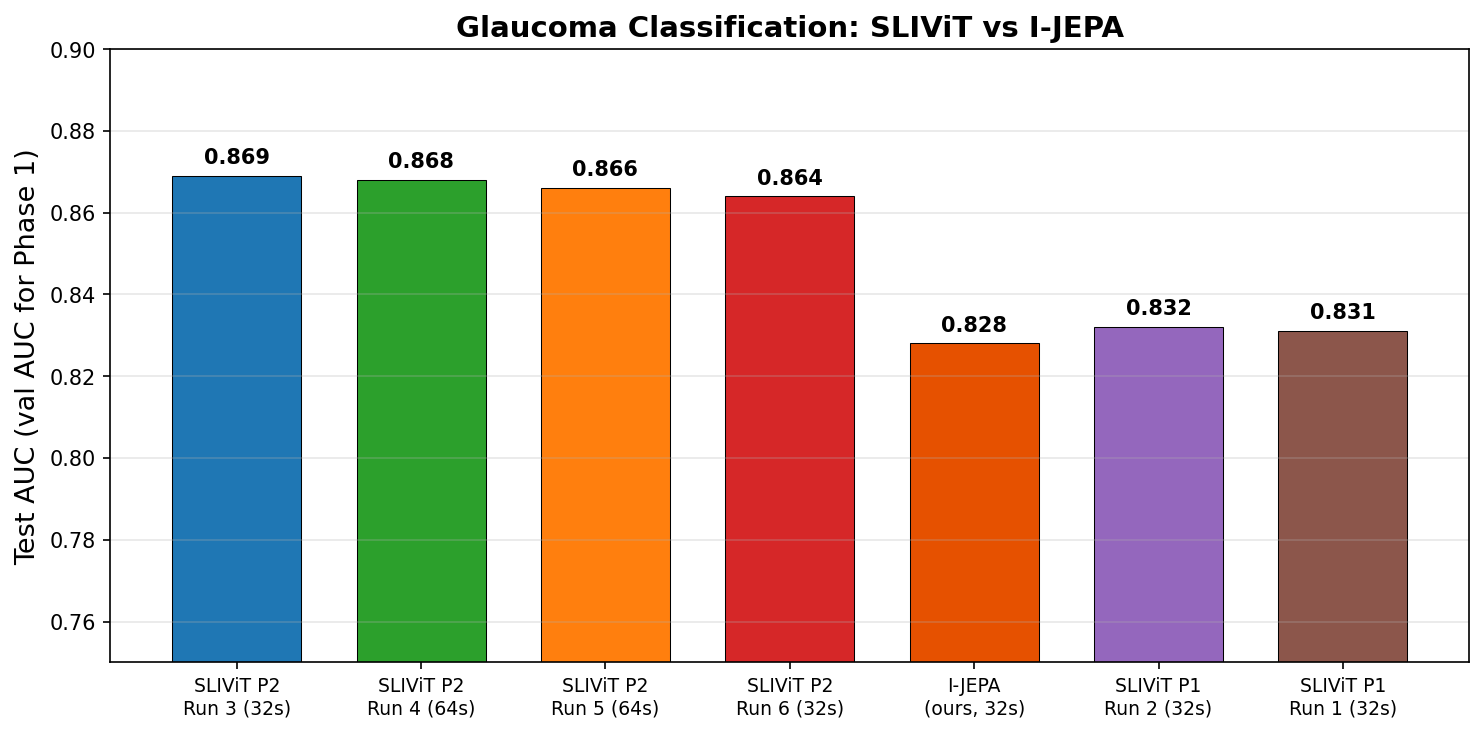
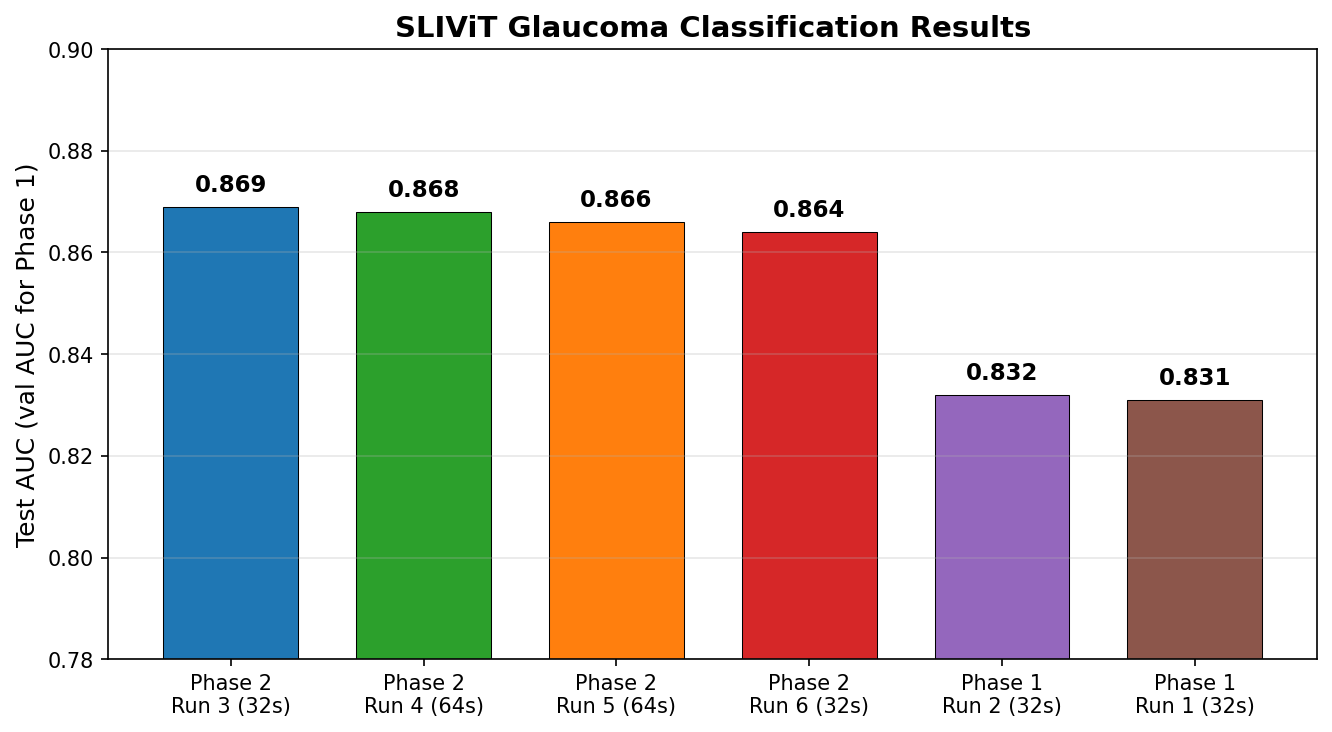
Restore original README, add sub-links and charts only
- Keep original README text intact (background, what we tried, etc.)
- Add pipeline SVG and bar chart to Architecture/Results sections
- Add sub-links to docs/experiments detail pages
- Add docs/ and results/ to project structure
- Remove I-JEPA references (this is a standalone SLIViT project)

diff --git a/README.md b/README.md
@@ -2,54 +2,23 @@
 
 Reproducing the [SLIViT](https://github.com/cozygene/SLIViT) architecture for binary glaucoma classification on [Harvard FairVision](https://github.com/Harvard-Ophthalmology-AI-Lab/FairVision) OCT data.
 
-## Results Summary
+## Background
 
-| Method | Slices | LR config | Dropout | Eff Batch | Test AUC |
-|--------|--------|-----------|---------|-----------|----------|
-| **SLIViT Phase 2, Run 3** | **32** | **5e-6 / 1e-5 / 5e-5** | **0.10** | **8** | **0.869** |
-| SLIViT Phase 2, Run 4 | 64 | 1e-6 / 5e-6 / 5e-5 | 0.15 | 4 | 0.868 |
-| SLIViT Phase 2, Run 5 | 64 | 1e-6 / 5e-6 / 5e-5 | 0.15 | 16 | 0.866 |
-| SLIViT Phase 2, Run 6 | 32 | 1e-6 / 5e-6 / 5e-5 | 0.15 | 16 | 0.864 |
-| SLIViT Phase 1, Run 2 | 32 | 2e-5 / 1e-4 (vit/head) | 0.0 | 16 | N/A (val 0.832) |
-| SLIViT Phase 1, Run 1 | 32 | 5e-5 / 5e-5 (vit/head) | 0.0 | 16 | N/A (val 0.831) |
-| *I-JEPA (ours)* | *32* | *—* | *—* | *—* | *0.828* |
+### How SLIViT works
 
-*I-JEPA result from our [sibling project](https://github.com/yfeng0206/I-JEPA) using ViT-B/16 with ImageNet-initialized SSL pretraining + fine-tuning.*
+SLIViT classifies 3D medical volumes without a full 3D CNN by slicing the volume into 2D images and processing them in stages:
 
-![Test AUC](results/test_auc_comparison.png)
+**Stage 1: ConvNeXt-Tiny (feature extractor).** A 2D CNN that processes each OCT slice independently to extract spatial features (retinal layer boundaries, thickness patterns, etc). Pretrained on ImageNet, then on the [Kermany OCT dataset](https://data.mendeley.com/datasets/rscbjbr9sj/2) (84K retinal OCT images: CNV, DME, drusen, normal).
 
-## Key Findings
+**Stage 2: ViT (integrator).** A Vision Transformer that takes per-slice features from ConvNeXt and learns cross-slice relationships. Randomly initialized.
 
-1. **Full fine-tuning is the key lever.** Unfreezing ConvNeXt pushed test AUC from ~0.83 (Phase 1) to 0.869 (Phase 2), confirming that Kermany-pretrained features alone are insufficient for glaucoma.
+**Stage 3: Classification head.** `LayerNorm + Linear(256, 1)`, outputs a single logit.
 
-2. **32 slices is enough.** Controlled comparison (Runs 5 vs 6, identical hyperparameters): 64 slices gave 0.866 vs 32 slices at 0.864 — negligible difference at 5x the training cost.
+### Why start with a frozen feature extractor?
 
-3. **Higher LRs found a better optimum.** Run 3's aggressive LRs (5e-6/1e-5/5e-5) peaked early (epoch 4) but reached the best test AUC. Early stopping captured the sweet spot.
+The ConvNeXt already knows OCT from Kermany pretraining, so freezing it and only training the ViT+head is cheaper and safer. This capped at ~0.83 AUC because glaucoma has its own patterns (RNFL thinning, optic nerve changes) that the frozen features can't capture. Unfreezing for Phase 2 pushed test AUC to 0.87.
 
-4. **Overfitting is the main bottleneck.** Train loss ~0.04 vs val loss >1.0 by end of training. Root cause: 50M trainable params on 6K images, with 33M in unnecessary projection layers.
-
-5. **20-head projection waste.** `vit_dim=256` doesn't divide by 20 heads, forcing 256-to-1280 projections. Switching to 16 heads would cut trainable params from 50M to ~15M.
-
-## Quick Links
-
-| | |
-|---|---|
-| **Experiments** | [All experiments](docs/experiments) |
-| **Phase 1** | [Frozen ConvNeXt experiments](docs/experiments/phase1) (2 runs) |
-| **Phase 2** | [Full fine-tuning experiments](docs/experiments/phase2) (4 runs) |
-| **Architecture** | [Model architecture details](docs/architecture.md) |
-
-## Architecture
-
-SLIViT classifies 3D OCT volumes without a 3D CNN by slicing the volume into 2D images and processing them in a pipeline:
-
-1. **ConvNeXt-Tiny** (feature extractor) — processes each OCT slice independently. Pretrained on ImageNet, then on the Kermany OCT dataset (84K retinal OCT images).
-2. **ViT** (integrator) — takes per-slice features and learns cross-slice relationships. 5 layers, 20 heads, dim 256.
-3. **Classification head** — `LayerNorm + Linear(256, 1)`, outputs a single logit.
-
-Total: 77.8M params (27.8M ConvNeXt, 50M ViT + projections + head). See [full architecture details](docs/architecture.md).
-
-## Dataset
+### The dataset
 
 Glaucoma subset of [Harvard FairVision](https://github.com/Harvard-Ophthalmology-AI-Lab/FairVision):
 - 10,000 subjects, each with a 200x200x200 OCT volume (`.npz`)
@@ -59,7 +28,82 @@ Glaucoma subset of [Harvard FairVision](https://github.com/Harvard-Ophthalmology
 
 ~63GB compressed, available on [HuggingFace](https://huggingface.co/datasets/ming0100/Harvard_FairVision) (`dataset-004.zip`).
 
-## Project Structure
+## Architecture details
+
+![Pipeline](results/pipeline.svg)
+
+Total: 77.8M params (27.8M ConvNeXt, 50M ViT + projections + head). See [full architecture breakdown](docs/architecture.md).
+
+Since `vit_dim=256` doesn't divide evenly by 20 heads, each transformer block needs projection layers (256 to 1280 and back), accounting for ~33M of the 50M trainable params. Switching to 16 heads would eliminate these and drop trainable params to ~15M.
+
+## Results
+
+![Test AUC](results/test_auc_comparison.png)
+
+### Phase 1: Frozen feature extractor, train ViT + head only
+
+| Run | Slices | LR (vit / head) | Dropout | Eff Batch | Val AUC | Test AUC | Best Epoch |
+|-----|--------|-----------------|---------|-----------|---------|----------|------------|
+| 1 | 32 | 5e-5 / 5e-5 | 0.0 | 16 | 0.831 | N/A | 6 |
+| 2 | 32 | 2e-5 / 1e-4 | 0.0 | 16 | 0.832 | N/A | 6 |
+
+[Detailed Phase 1 analysis](docs/experiments/phase1)
+
+### Phase 2: Full fine-tuning, all parameters trainable
+
+| Run | Slices | LR (fe / vit / head) | Dropout | Batch/GPU | Accum | Eff Batch | Val AUC | Test AUC | Best Epoch |
+|-----|--------|----------------------|---------|-----------|-------|-----------|---------|----------|------------|
+| 3 | 32 | 5e-6 / 1e-5 / 5e-5 | 0.10 | 2 | N/A | 8 | 0.846 | **0.869** | 4 |
+| 4 | 64 | 1e-6 / 5e-6 / 5e-5 | 0.15 | 1 | N/A | 4 | 0.841 | 0.868 | 6 |
+| 5 | 64 | 1e-6 / 5e-6 / 5e-5 | 0.15 | 2 | 2 | 16 | 0.845 | 0.866 | 9 |
+| 6 | 32 | 1e-6 / 5e-6 / 5e-5 | 0.15 | 2 | 2 | 16 | 0.840 | 0.864 | 7 |
+
+[Detailed Phase 2 analysis](docs/experiments/phase2)
+
+## What we tried and why
+
+### Phase 1 experiments (Runs 1-2)
+
+Started with SLIViT defaults, frozen ConvNeXt. Run 1 used a single LR (5e-5) and hit 0.831 val AUC. Run 2 split the LR (head 1e-4, ViT 2e-5) with no meaningful improvement (0.832). The bottleneck was the frozen features, not the learning rate.
+
+### Moving to full fine-tuning (Run 3)
+
+Unfroze the ConvNeXt with a low LR (5e-6) to preserve the Kermany pretrained weights, ViT at 1e-5, head at 5e-5. Added dropout (0.1) for the now-78M parameter model. Best result: 0.846 val / **0.869 test AUC**.
+
+### More slices and lower LR (Run 4)
+
+Tried 64 slices for denser coverage. Dropped LRs (ConvNeXt 1e-6, ViT 5e-6) and bumped dropout to 0.15 to combat overfitting. Had to reduce batch to 1/GPU due to VRAM. Result: 0.868 test AUC, essentially the same as 32 slices, but the comparison is confounded by multiple simultaneous changes.
+
+### Fixing the batch size confound (Runs 5-6)
+
+Used gradient accumulation (2 steps) with bs=2/GPU for an effective batch of 16. Ran 32 and 64 slices with identical hyperparameters. Results: 0.866 vs 0.864, a negligible difference. **32 slices is enough.**
+
+### Best run was our first Phase 2 attempt
+
+Run 3's higher LRs reached a better optimum faster despite earlier overfitting (best epoch 4 vs 7-9). Early stopping captured the peak, making the aggressive LR worthwhile.
+
+### The overfitting problem
+
+Every run follows the same pattern: val loss starts climbing after epoch 4-6. By end of training, train loss ~0.04 vs val loss >1.0. Dropout, lower LRs, and per-component LRs all helped marginally but didn't solve it. The root cause is likely 50M trainable params on only 6K images, with 33M of those in projection layers that could be eliminated by using 16 heads.
+
+## Training setup
+
+**Hardware:** 4x NVIDIA T4 (16GB each)
+
+**Timing:**
+- 32 slices, bs=2/GPU: ~5 min/epoch, ~1 hour per run
+- 64 slices, bs=1/GPU: ~24 min/epoch, 4-5 hours per run
+
+**Stack:** PyTorch 1.13.1, CUDA 11.7, HuggingFace Transformers, 4-GPU DDP with fp16.
+
+**Training config:**
+- AdamW, weight decay 0.01
+- Cosine LR with 3-epoch warmup
+- BCEWithLogitsLoss
+- Early stopping on val AUC, patience=5
+- ConvNeXt from [SLIViT's checkpoint](https://drive.google.com/drive/folders/1f8P3g8ofBTWMFiuNS8vc01s98HyS7oRT)
+
+## Project structure
 
 ```
 src/
@@ -84,15 +128,15 @@ scripts/
   download_hf.py     Downloads the dataset from HuggingFace
 
 docs/
-  architecture.md    Model architecture details
-  experiments/       Detailed experiment logs & analysis
+  architecture.md    Full architecture breakdown and parameter analysis
+  experiments/       Detailed per-run analysis and training curves
     phase1/          Frozen ConvNeXt experiments (Runs 1-2)
     phase2/          Full fine-tuning experiments (Runs 3-6)
 
-results/             Training curves, plots, raw data
+results/             Comparison charts and training data
 ```
 
-## What's Next
+## What's next
 
 Things that could push past the 0.87 ceiling:
 
